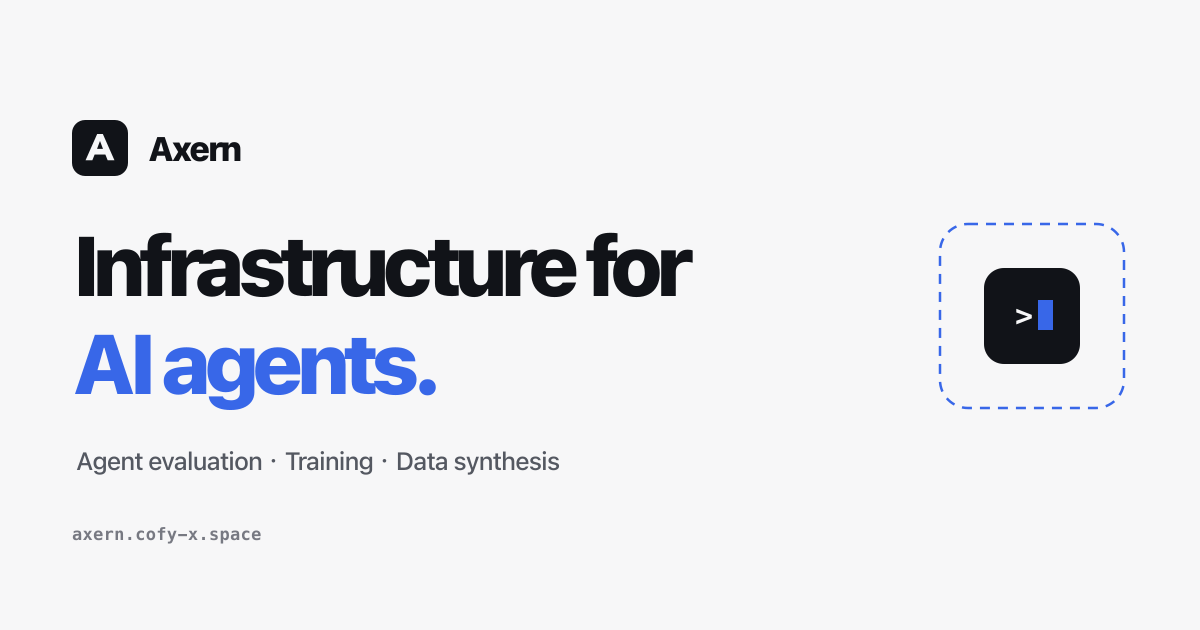
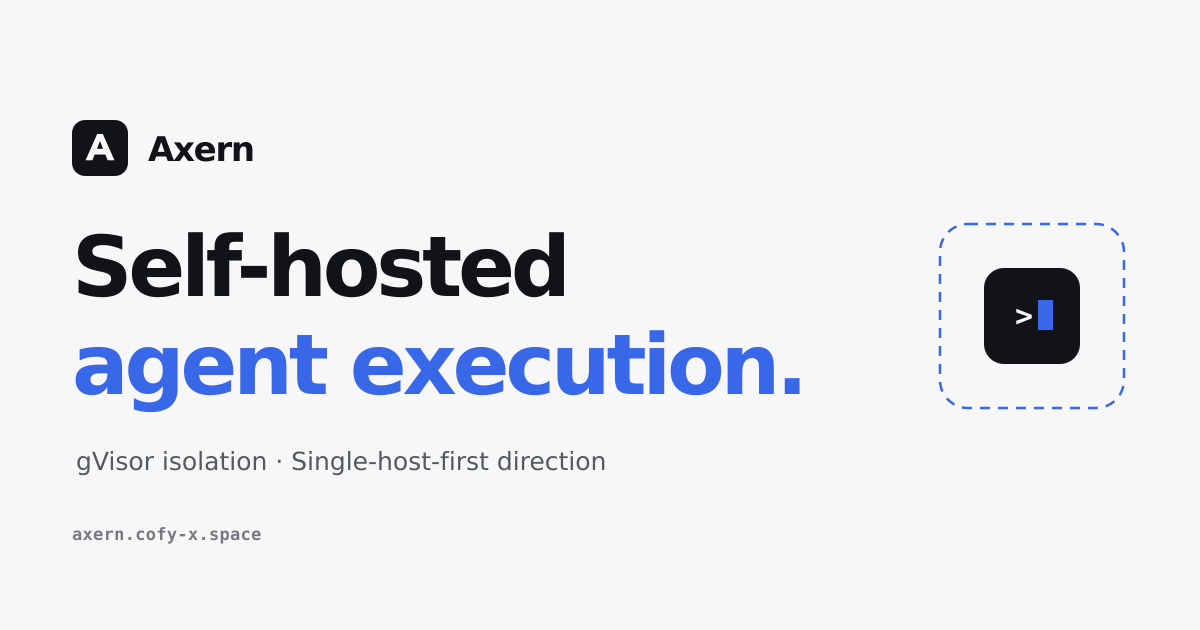
docs: define single-host agent serving direction

diff --git a/docs/decisions/single-host-agent-serving.md b/docs/decisions/single-host-agent-serving.md
@@ -1,0 +1,112 @@
+# Single-Host Agent Serving
+
+## Decision And Status
+
+Axern's direction is a self-hosted execution platform for AI agents, optimized for continued work on one Linux host. gVisor/runsc is the sole long-term execution backend. Persistent Workspace and a qualified standalone serving profile are accepted product goals; they are not implemented by this documentation change.
+
+This decision supersedes the conditional second-runtime direction in [Firecracker Evaluation Boundary](firecracker-evaluation-boundary.md). The [Product Direction](../product/product-direction.md) owns the enduring scope. The [roadmap issue](https://github.com/cofy-x/axern/issues/195) and linked phase issues own delivery status, dependencies, and verification evidence; the current [Domain Model](../product/domain-model.md), [Runtime Architecture](../architecture/runtime-architecture.md), and [Storage Architecture](../architecture/storage-architecture.md) continue to describe implemented contracts.
+
+## Rationale
+
+Personal agent work needs environments that are easy to operate, can run background work, retain useful files, and allow a human to inspect and continue a task. Evaluation, training, and synthesis remain valid workloads, but fleet scale and transient batch throughput no longer determine the default architecture. A real multi-agent workflow should drive investment before speculative backend, cluster, or snapshot generalization.
+
+The existing execution identities, authority checks, runtime recovery, and cleanup mechanisms remain valuable. Simplification should reduce configuration, deployment units, and failure coordination while preserving those boundaries. A single command or package is useful; forcing all code into one privileged process is not a goal.
+
+## Current Baseline And Target
+
+This assessment uses source baseline `c0d8444964d21468d2e778a769570cc7b21b00ef` (v0.12.1). It is a design baseline, not a claim that a current host or release artifact has passed qualification.
+
+| Concern | Current implementation | Target |
+| --- | --- | --- |
+| Local startup | CLI-managed Compose with PostgreSQL and multiple services; generated development identity, loopback listeners, and `disabled_dev` cgroup enforcement | One qualified Linux installation and managed service lifecycle with required enforcement enabled |
+| macOS | CLI and local stack through a Linux VM | Client and VM development experience; no native macOS runsc implementation |
+| Execution | Environment -> Run -> Allocation; Sandbox facade; runsc only | Preserve the execution chain and permanently select gVisor/runsc |
+| Working files | Allocation-local writable rootfs; no persistent Workspace API | Independently retained, authorized host-local Workspace data |
+| Results | Bounded node-local outputs; successful rootfs sealing creates an immutable Environment | Explicit retained-result delivery with inspectable success, retention, and failure |
+| Connections | Processes, terminals, SSH, and reverse Tunnels | Reconnectable work and authenticated service previews with explicit execution identity |
+| Maintenance | Pre-stable schema changes use coordinated rebuilds; local refresh paths can reset state | Supported-version migration, protected backups, restore, and observable restart recovery |
+
+Current local Compose must not be relabeled as the qualified serving profile. Existing commands and published APIs remain valid until an implementation changes them explicitly; this decision defines no new executable command or released API.
+
+## Target Ownership
+
+```mermaid
+flowchart TB
+    Caller["Personal agent platform: events, tasks, planning, memory, approvals"] --> Worker["Worker adapter / agent harness"]
+    Worker --> Public["Axern public API and access boundary"]
+    Public --> Control["Control: intent, authorization, admission, retention"]
+    Control --> DB["PostgreSQL: authoritative product metadata"]
+    Public --> Executor["Privileged local execution boundary"]
+    Control --> Executor
+    Executor --> Runtime["gVisor / runsc"]
+    Executor --> Data["Managed host-local Workspace and result bytes - planned"]
+```
+
+This is an ownership diagram, not a promise that each box is a separate daemon. The target installation manages one public endpoint and configuration surface, a control service, the necessary local execution/helpers, and PostgreSQL. Public traffic must not inherit host operator authority when components share a package or process. Remote transports can be removed or localized only with an explicit equivalent authorization and failure contract.
+
+Axern owns execution and data facts: what is running, where authorized files live, which writer owns an attachment, what resources are charged, what bytes were delivered, and whether cleanup is confirmed. The upper agent platform owns task completion, Agent roles, model choice, memory, scheduling policy, messages, approvals, semantic retries, result merging, and external effects. A worker protocol and its Session meaning belong to the adapter rather than Axern's domain model.
+
+Running a worker's complete harness inside a sandbox is the preferred first integration shape. Redirecting only shell commands is insufficient if filesystem operations, background jobs, or subagents still execute on the host. An adapter must enumerate those paths and its scoped model/credential transport; Axern need not understand the harness's private Session format.
+
+## Persistent Workspace Boundary
+
+Workspace is planned as a namespace-scoped data resource with an identity and lifetime independent of a Run or Allocation. It is not an Environment property, a persistent Sandbox object, or an Agent Session. An Environment remains immutable execution input. A new execution from retained files still creates a new Run and Allocation; old execution identities and access grants are never reused. A Workspace handle must not silently redirect an old process, terminal, or file-operation handle to a replacement Allocation.
+
+- **Authority and location:** PostgreSQL owns Workspace metadata, authorization, attachment intent, and retained storage accounting. One managed Linux host owns the bytes and mount observations. Missing or inaccessible data is explicit, never an empty successful recovery or an automatic cross-host reschedule.
+- **Attachment:** Run admission freezes the authorized Workspace reference. The first version permits one writer. Transferring write ownership requires evidence that the old runtime and writable attachment have stopped or equivalent enforced fencing; database lease expiry alone is insufficient. Define any read-only access consistently with live writers rather than implying a snapshot.
+- **Capacity:** retained bytes remain charged when detached. Workspace capacity is separate from the current ephemeral rootfs charge and needs its own enforced accounting and full-disk behavior.
+- **Isolation:** callers cannot select arbitrary host paths. Mount validation, traversal/symlink handling, namespace authorization, and secret projection boundaries must remain enforceable through attachment, access, backup, and deletion.
+- **Retention and deletion:** stopping or deleting a sandbox does not delete Workspace data. Workspace deletion is an explicit authorized operation, blocked by active or ambiguous attachments until ownership and cleanup converge. Retention policies must be visible rather than silently inherited from Run output TTLs.
+- **Recovery:** retained files enable rebuilding work, not transparent process continuation. Host reboot, node/disk loss, and restoring a backup have distinct outcomes. Upper-layer recovery decides whether to restart a worker or retry an external action.
+
+The existing successful-Run rootfs snapshot remains an immutable Environment result, not a mutable Workspace or process checkpoint. Existing reverse Tunnels connect sandbox workloads to caller-owned services; inbound authenticated preview requires its own access contract. Existing 15-minute declared-output retention remains unchanged until the relevant implementation lands.
+
+For initial durable handoff, define explicit publication to retained Workspace data or caller-owned storage, with receipts for the actual bytes. Do not add a generic object store or another public Artifact root without an independently justified lifecycle. A cold backup may be the first supported backup mechanism, but it must coordinate metadata, data, required recovery facts, and encryption/identity material; an unrelated database dump and copy of live directories is not a consistency guarantee.
+
+Recovery also needs immutable Environment image digests, supported runtime versions, and an explicit registry retention/access responsibility. A restore is not proven merely because files are readable: qualify a fresh Allocation from the original immutable Environment with the recovered data. Missing images or credentials must produce an explicit failure, never tag drift or an empty replacement environment. Fence the previous installation before regranting writer authority, and do not revive stale Allocation leases from a backup.
+
+## Module Dispositions
+
+The table describes implementation direction, not completed moves or module deletion. Linked module contracts continue to own current technical behavior.
+
+| Existing module or dependency | Disposition | Planned treatment and constraint |
+| --- | --- | --- |
+| `apps/cli`, Go/Python/TypeScript SDKs, `sdk/proto` | Keep and simplify the common path | One standalone setup/diagnostic experience; add Workspace and reconnect contracts atomically across public surfaces. Preserve explicit IDs and error semantics. |
+| `control/controld` | Keep authority; consolidate deployment | Retain intent, authorization, resource charge, and lifecycle; add Workspace metadata. Local placement should not require cluster operations. |
+| `gateway/gatewayd` | Consolidate compatible control wiring | Evaluate one control-service composition with `controld`; preserve public access checks, stream behavior, revocation, and no host-operator privilege. A process merger requires failure tests. |
+| `controld-retention`, migration and access bootstrap jobs | Fold into managed lifecycle | Integrate retention scheduling and one-shot setup/upgrade orchestration without competing writers or resetting existing state. Keep migration ordering explicit. |
+| PostgreSQL | Keep one authority | Manage installation, backup and upgrades. Do not add SQLite or dual state backends during this transition. |
+| `runtime/axnoded`, `axern-sandboxd`, runsc | Keep execution boundary | Own runtime, processes, mounts, enforced limits, local recovery and cleanup. Pin/manage the full runtime package and qualify systrap as the initial serving platform on supported Linux hosts. No additional backend or runtime registry. |
+| `runtime/egressd` | Keep enforcement responsibility | Managed local helper with explicit privilege and health checks. Co-packaging must not bypass fail-closed network policy. |
+| `runtime/tunneld`, node tunnel connector | Consolidate deployment where justified | Preserve finite allocation authority and reverse-relay behavior. Co-locate wiring where useful; do not confuse relay consolidation with adding authenticated preview. |
+| `runtime/imagemgr` | Keep and narrow default dependencies | Preserve OCI pull/cache/rootfs ownership. Audit startup coupling before making Nydus-specific dependencies optional; ordinary OCI currently does not imply those dependencies can simply be deleted. |
+| `runtime/imagefsd`, Nydus, chunk/P2P paths | Defer new optimization; isolate optional path | Keep existing supported behavior until an explicit compatibility change. Make it unnecessary for the default OCI installation only after dependency and cleanup tests prove separation. |
+| `network/bpfnet` and alternate host-network paths | Keep a qualified default; defer expansion | Select one tested Linux serving profile. Changing backend is a separate enforcement qualification, not a shortcut to fewer services. |
+| `deploy/local` | Keep development workflow | Preserve macOS/Linux local development, while separating it clearly from the qualified Linux serving profile. |
+| Helm/kind, cluster/HA/multi-region work | Maintain existing contracts; defer new scope | They must not be prerequisites for the personal installation. Removing an existing deployment path needs an explicit migration decision. |
+| Local registry and observability services | Manage or make optional by demonstrated need | Consume existing OCI images first; document registry/cache needs. Diagnostics are required, a full metrics dashboard stack is not a first-task prerequisite. |
+| `apps/docs` and root documentation | Keep aligned with evidence | Publish current commands and capabilities; label planned behavior and route implementation status to issues. |
+| Axrun, Kova, and agent harnesses | External consumers or optional producers | Axrun retains its evaluation contract; Kova can supply images but is not required. Agent orchestration and worker adapters remain outside Axern. |
+
+## Phased Delivery
+
+Each phase issue owns its checklist, implementation PRs, and actual acceptance results. Phase numbers express dependencies, not calendar promises. Contract design can overlap, but dependent behavior must not be advertised before its prerequisites pass. During Phases 1–2, run a bounded consumer compatibility experiment with a complete worker, filesystem tools, background jobs, subagents, and model connectivity inside the execution boundary. Use its findings to shape the contracts; Phase 5 still owns complete integration acceptance after qualification.
+
+| Phase | Scope | Dependency and exit evidence |
+| --- | --- | --- |
+| [0: Positioning and architecture](https://github.com/cofy-x/axern/issues/196) | Product descriptions, boundaries, module dispositions, and this decision | Reviewed current/planned separation and documentation checks |
+| [1: Linux standalone baseline](https://github.com/cofy-x/axern/issues/197) | Managed setup/configuration, enforced runsc path, component consolidation and OCI dependency simplification | Phase 0; fresh-host real sandbox, resource/network enforcement, preserved data on restart, measured operational footprint |
+| [2: Persistent Workspace](https://github.com/cofy-x/axern/issues/198) | Independent data lifecycle, authorization, attachment, fencing, capacity and deletion | Phase 1 runtime/storage baseline; restart/recreate retention and competing-writer/deletion/failure tests |
+| [3: Reconnect and handoff](https://github.com/cofy-x/axern/issues/199) | Background work, terminal recovery, authenticated preview and explicit result delivery | Phase 2; disconnect, revocation, cleanup and delivery-failure acceptance |
+| [4: Stateful maintenance](https://github.com/cofy-x/axern/issues/200) | Supported upgrades, consistent backup/restore, reboot and failure convergence | Phase 1 baseline plus Phase 2/3 data contracts; isolated restore and supported-version upgrade preserving data and authority |
+| [5: Personal-agent pilot](https://github.com/cofy-x/axern/issues/201) | External adapter, two isolated workers, human inspection and retained follow-up | Phases 1–4; reproducible complete task and interruption scenarios using public APIs |
+
+Phase 1 establishes the executable Linux baseline; its release/backup design must precede persistent data work. Phase 4 qualifies the complete stateful maintenance contract. Until that passes, the new profile remains evaluation-only rather than claiming long-term service readiness. The current rebuild-only schema policy cannot silently become the upgrade policy for retained personal work.
+
+The pilot uses separate Workspaces for independent writers and explicit caller-owned result merging. It must distinguish controller/client restart from full host reboot, show that sandbox destruction preserves data, and require explicit Workspace deletion. A human handoff must coordinate with the worker's writing policy; a terminal connection by itself does not establish exclusive access.
+
+## Consequences And Revisit Conditions
+
+The platform accepts a narrow persistent-data responsibility and the maintenance obligations that follow. That increases storage correctness work while reducing investment in alternative runtimes and fleet-oriented features. PostgreSQL and necessary helpers remain dependencies; this decision promises a smaller managed operational surface, not a dependency-free binary.
+
+Keep module consolidation when measured configuration, startup, idle footprint, and recovery improve without weakening authorization, cleanup, or debugging. Revisit a specific consolidation if it broadens privilege or worsens fault recovery. Consider deferred scaling or image optimization only when an actual single-host workload demonstrates the gap. The gVisor-only choice is the durable product constraint, not a pending comparison experiment.

diff --git a/docs/product/product-direction.md b/docs/product/product-direction.md
@@ -1,31 +1,45 @@
 # Axern Product Direction
 
-This document defines the durable product direction used to accept or reject new scope. It is not a roadmap or backlog.
+This document defines the durable direction used to accept or reject scope. The [single-host architecture decision](../decisions/single-host-agent-serving.md) defines the target and module dispositions; the [roadmap](https://github.com/cofy-x/axern/issues/195) tracks implementation and acceptance. Current API and lifecycle guarantees remain in the [Domain Model](domain-model.md) and architecture documents.
 
 ## North Star
 
-Axern is an open-source environment execution platform for agent evaluation, training, and data synthesis. Its public SDK provides secure, rebuildable, high-concurrency sandboxes with explicit lifecycle, access, output, and cleanup contracts.
+Axern is a self-hosted execution platform for AI agents, optimized for continued work on one Linux host. It provides isolated execution through gVisor, with a direction toward persistent workspaces, reconnectable work, and low operational overhead. Personal agent systems are the primary design reference; evaluation, training, and data synthesis remain consumers of the same execution primitives.
+
+The target experience is to run independent agent workers, retain their work, inspect processes and services, and hand work between agents and a human without operating a cluster. Success is measured by time to a first useful task, recovery after interruption, idle resource cost, and ongoing maintenance effort. Unmeasured startup, density, or durability claims are not product guarantees.
+
+## Delivery Status
+
+The current product provides the `Environment -> Run -> Allocation` execution model, a Sandbox SDK facade, process/file/terminal operations, reverse Tunnels, and a multi-service local Compose stack. Writable files are Allocation-local; selected outputs have bounded node-local retention. The current local stack uses development credentials and `disabled_dev` cgroup enforcement.
+
+A qualified long-running Linux standalone profile and persistent Workspace are planned capabilities. Updating this direction does not introduce a Workspace API, change output retention, promise process survival across reboot, or turn the local development profile into a production service. Follow the roadmap for implementation evidence.
 
 ## Principles
 
-- **One execution model:** `Environment -> Run -> Allocation -> runsc sandbox` is the only durable chain; `Sandbox` is an SDK facade over it.
-- **One production runtime:** runsc owns the execution boundary. Missing isolation or capability evidence fails closed; experimental runtimes do not create parallel product models.
-- **Explicit authority:** process, file, archive, terminal, SSH, Tunnel, and output access are finite and Allocation-scoped.
-- **Durable control, local execution:** PostgreSQL owns central product intent; node runtime and kernel state remain local, recoverable projections.
-- **Rebuildable inputs, explicit outputs:** Environments are immutable, writable state is Allocation-local, and selected outputs use bounded delivery to caller-owned storage.
-- **Public composition:** CLIs and SDK consumers use released APIs rather than internal packages or alternate control planes.
-- **Local-to-deployed continuity:** development and deployed environments exercise the same contracts; Linux- or cluster-specific behavior is proven in the environment that owns it.
+- **Single-host first:** make one Linux installation, configuration, data layout, and maintenance path complete before investing in cluster expansion. macOS remains a client and a development host through a Linux VM; it is not a native runsc execution host.
+- **One runtime:** gVisor/runsc is the sole long-term sandbox backend. Missing isolation or capability evidence fails closed; no fallback or second runtime registry is planned.
+- **One execution model:** `Environment -> Run -> Allocation -> runsc sandbox` remains the only durable execution chain. Sandbox is the SDK facade; a persistent Workspace will own retained data separately from execution.
+- **Explicit authority:** process, file, archive, terminal, SSH, Tunnel, and future preview access remain scoped, revocable, and bound to execution identity. Packaging consolidation must preserve public, operator, and privileged runtime boundaries.
+- **Durable control, local data:** PostgreSQL remains the sole authoritative product-state backend in this transition. Node-local recovery is a projection. Host-local files need an explicit retention, capacity, backup, and loss contract; metadata durability alone does not make bytes durable.
+- **Recoverable work:** distinguish reconnecting to an existing execution, rebuilding a new execution from retained data, and losing a process. The caller owns semantic retries and duplicate external-effect prevention.
+- **Small operational surface:** manage dependencies and compatible control components together, retain necessary privilege separation, and make optional image/network optimizations earn their cost through real workloads.
+- **Public composition:** worker adapters, CLIs, and SDK consumers use public APIs. No particular model provider, agent harness, Kubernetes installation, or image-build service is required to consume the platform.
 
 ## Product Boundary
 
-Axern owns Namespace, Environment, Run, Allocation, Node, Secret, authorization, resource admission, execution leases, capability evidence, Allocation operations, TunnelSession, and bounded output delivery.
+| Area | Axern scope | Caller or external scope |
+| --- | --- | --- |
+| Execution | Environment, Run, Allocation, admission, limits, cancellation, cleanup, and observable recovery | Task intent, planning, Agent roles, orchestration, and semantic retries |
+| Work data | Planned host-local Workspace identity, authorized attachment, single-writer fencing, retention, and explicit deletion | Agent memory, conversation/session meaning, Git merging, and distributed storage |
+| Interaction | Processes, terminals, files, logs, reverse Tunnels, and planned authenticated allocation-scoped previews | IDE or dashboard product, application rollout, replicas, and route orchestration |
+| Delivery | Existing bounded outputs and planned explicit retained-result handoff | Business acceptance, long-term external publication, and external side effects |
+| Authority | Principal/Namespace authorization, secrets, execution authority, and resource accounting | Human approval policy, model budgets, provider credentials, and event integrations |
+| Operations | A qualified standalone lifecycle, diagnostics, backup/restore, and supported-version upgrades | Cloud accounts, cluster provisioning, high availability, and image builds |
 
-Axern does not own application orchestration, service deployment, persistent workspaces, volume provisioning, clusters, regions, cloud accounts, or image builds. Those capabilities belong to callers, applications, storage systems, or deployment infrastructure.
+The planned Workspace is deliberately narrow: managed local data with an independent lifetime, not a general volume platform. Stopping an execution must not imply deleting its retained Workspace; concurrent writers require enforced ownership rather than a shared-directory convention. The exact public contract must be implemented atomically across state, APIs, SDKs, CLI, and verification before the Domain Model presents it as available.
 
-SSH, Terminal, and Tunnel are execution-platform capabilities, not reasons to introduce service deployment or application-session models. Node-local operator tools are diagnostics, not public lifecycle authorities.
+Existing Kubernetes, Nydus, and other supported paths are not removed by this direction. New cluster/HA, distributed image/storage optimization, and transparent process snapshot/fork investment is deferred behind demonstrated single-host needs. Additional execution runtimes are outside the chosen product scope.
 
 ## Scope Test
 
-A proposal belongs in Axern only when it serves environment execution, has one explicit state owner, composes the stable Run and Allocation lifecycle, defines authorization and cleanup, and cannot be implemented safely through existing public primitives. Otherwise it belongs above or below the platform.
-
-Stable object meaning lives in the [Domain Model](domain-model.md). Current implementation belongs in architecture documents, commands in runbooks or READMEs, and version history in release notes.
+A proposal belongs in Axern when it serves isolated execution or retained execution data, has one explicit state owner, preserves the execution chain, and defines authorization, capacity, cleanup, and recovery. Workflow meaning and provider-specific behavior stay in callers. A new first-class resource must demonstrate an independent identity and lifetime that existing resources cannot safely express.

diff --git a/README.md b/README.md
@@ -1,5 +1,5 @@
 <p align="center">
-  <img src="./assets/readme/hero.svg" width="100%" alt="Axern — sandbox execution for AI agents: Environment → Run → Allocation → runsc sandbox">
+  <img src="./assets/readme/hero.svg" width="100%" alt="Axern — self-hosted execution for AI agents: Environment → Run → Allocation → runsc sandbox">
 </p>
 
 <p align="center">
@@ -14,9 +14,11 @@
   <a href="./README.zh-CN.md">简体中文</a>
 </p>
 
-Axern is an open-source environment execution platform for agent evaluation, training, and data synthesis. It isolates agent-generated code with gVisor (`runsc`) through one resource and lifecycle model. Runsc is the supported execution runtime, with no runtime fallback. The CLI and the Go, Python, and TypeScript SDKs expose the same public APIs for Environments, Runs, sandbox processes and files, Tunnels, lifecycle state, and allocation-scoped access.
+Axern is an open-source, self-hosted execution platform for AI agents. It isolates agent-generated code with gVisor (`runsc`) through one resource and lifecycle model. Runsc is the supported execution runtime, with no runtime fallback. The CLI and the Go, Python, and TypeScript SDKs expose the same public APIs for Environments, Runs, sandbox processes and files, Tunnels, lifecycle state, and allocation-scoped access.
 
-> **Project status:** Axern is pre-1.0 and under active development. It is suitable for evaluation and contribution, but operators should review the security and production boundaries before deploying multi-tenant workloads.
+The product direction is **single-host-first infrastructure for personal agent systems**: simpler Linux deployment, long-running sandbox services, and persistent Workspaces that multiple agents can use through explicit access and ownership. Agent planning, collaboration, and workflows remain in caller applications. See the [product direction](./docs/product/product-direction.md) and [single-host serving decision](./docs/decisions/single-host-agent-serving.md).
+
+> **Project status:** Axern is pre-1.0 and under active development. The dedicated single-host serving deployment and persistent Workspace resource are planned, not implemented. Today's local path is a Docker Compose development stack; writable storage is Allocation-local, and sealed outputs expire after 15 minutes. Review the current deployment and storage boundaries before use.
 
 The durable chain is **Environment → Run → Allocation → runsc sandbox**. Sandbox is an SDK facade over that chain, not a second execution lifecycle.
 
@@ -26,7 +28,7 @@ The durable chain is **Environment → Run → Allocation → runsc sandbox**. S
 
 ## Quickstart
 
-The supported local path runs the complete stack with Docker Compose. It needs only the `axern` CLI and Docker Compose v2 — no source checkout, Make, Helm, or language toolchains.
+The supported local development path runs the complete stack with Docker Compose on Linux or through Docker Desktop's Linux VM on macOS. It needs only the `axern` CLI and Docker Compose v2 — no source checkout, Make, Helm, or language toolchains. gVisor execution runs on Linux in both cases.
 
 ```bash
 brew install cofy-x/tap/axern
@@ -70,16 +72,16 @@ For repository development, `make verify-changed` is the normal fast feedback en
 ## What You Can Build
 
 - **Agent sandboxes:** execute agent-generated code behind a runsc isolation boundary while retaining process, file, terminal, and output APIs.
-- **Evaluation and synthesis batches:** execute isolated work concurrently through Runs, with explicit inputs, outputs, and lifecycle evidence.
+- **Concurrent agent tasks:** execute coding, research, evaluation, or data processing work through independent Runs, with explicit inputs, outputs, and lifecycle evidence.
 - **SDK-driven execution:** use a released SDK to create Runs, operate their Allocations, seal bounded declared outputs, publish a successful writable rootfs as a reusable Environment, and recover by public resource identity.
 
 ## Why Axern
 
-- **Sandbox as the primitive:** evaluation, training, data synthesis, coding workspaces, and agent tasks compose the same Run execution model.
+- **Execution for your agent system:** compose isolated agent tasks through the same Run execution model while keeping planning, memory, and collaboration in your application.
 - **Durable control plane:** PostgreSQL-backed intent, placement, leases, allocation-scoped status, health, and cleanup state remain authoritative across process or node restarts.
 - **One production runtime:** runsc workloads use the same public APIs; OCI and Nydus image paths converge at the node runtime.
 - **Real data-plane access:** process streams, files, archives, SSH-compatible terminals, and reverse TCP tunnels are explicit allocation capabilities.
-- **Local-to-cluster continuity:** Docker Compose, kind, and the cloud-neutral Helm chart exercise the same component boundaries.
+- **A focused direction:** prioritize simpler single-host deployment and persistent working data; existing Compose, kind, and Helm deployment contracts remain documented while that work is implemented.
 
 ## Architecture
 

diff --git a/docs/architecture/runtime-architecture.md b/docs/architecture/runtime-architecture.md
@@ -2,6 +2,8 @@
 
 Object identity and ownership follow the [Stable Domain Model](../product/domain-model.md). This document describes the current component and traffic boundaries that implement it.
 
+The target deployment is Linux single-host serving, with macOS clients and VM-backed local development. Planned service consolidation is defined in [Single-Host Agent Serving](../decisions/single-host-agent-serving.md); the separate services and traffic paths below remain the current implementation.
+
 Axern separates durable product intent from node-local execution:
 
 - `controld` and PostgreSQL own Environments, Runs, Allocations with their resource charges, allocation access grants, TunnelSessions, placement, authorization, and durable lifecycle state. Axnoded persists the locally received execution-lease deadline with its Allocation recovery record.
@@ -60,13 +62,8 @@ Reconsider this decision when a reproducible supported-platform Run fails on a r
 
 ## Runtime Backend Boundary
 
-The public and control-plane model is backend-neutral today: Environment, Run, Allocation, resource charge, ExecutionLease, AllocationAccessGrant, SSH, TunnelSession, and Gateway routing carry only Allocation identity and typed execution requirements. Runsc container names, bundles, OCI state, and recovery checkpoints stay under `runtime/axnoded`.
+gVisor (`runsc`) is the sole sandbox runtime for both the current implementation and the long-term product direction. Missing required runsc, isolation, or platform capability evidence fails closed; there is no runtime fallback or planned second backend. The rationale is recorded in [Single-Host Agent Serving](../decisions/single-host-agent-serving.md).
 
-Axnoded is not yet ready to add Firecracker as a second implementation without node-local work. The concrete blockers are intentionally local:
+Environment, Run, Allocation, resource charge, ExecutionLease, AllocationAccessGrant, SSH, TunnelSession, and Gateway routing carry Allocation identity and typed execution requirements. Runsc container names, bundles, OCI state, and recovery checkpoints stay under `runtime/axnoded`. Keeping those handles private preserves ownership boundaries without creating a runtime selection API.
 
-- lifecycle wiring stores one `runscHandler` and several recovery paths call it directly;
-- create planning, rootfs overlay enforcement, capability conformance, process/file transport, and sandboxd session establishment assume OCI/runsc artifacts;
-- node recovery inventory and terminal checkpoint recovery enumerate runsc containers directly;
-- cgroup and ephemeral-storage enforcement manifests contain runsc-specific verification details.
-
-Those blockers do not justify a second control-plane lifecycle, speculative backend fields, or an in-process runtime registry. If Firecracker is qualified later, it should ship as a separate node implementation and node pool that satisfies the existing Allocation lifecycle, process/file/session, recovery, and capability-evidence contracts. Backend-specific handles remain private to that implementation; the Allocation ID remains the only execution identity, and placement selects a node from immutable execution requirements rather than a user-visible backend name.
+Axnoded uses one runsc executor for creation, recovery, process and file transport, cleanup, and enforcement evidence. Its internal interfaces are execution and test boundaries; they do not define a plugin registry or an Allocation-selectable backend. The Allocation ID remains the only execution identity.

diff --git a/runtime/axnoded/README.md b/runtime/axnoded/README.md
@@ -1,6 +1,6 @@
 # Axnoded
 
-`axnoded` is Axern's node-local sandbox execution agent. It runs on a selected node and owns sandbox creation, OCI bundle generation, runtime lifecycle, resource coordination, node-local operator inspection, gateway-forwarded execution after `controld` placement, and request-scoped image-backed process.
+`axnoded` is Axern's Linux node-local sandbox execution agent. It runs on a selected node and owns sandbox creation, OCI bundle generation, runtime lifecycle, resource coordination, node-local operator inspection, gateway-forwarded execution after `controld` placement, and request-scoped image-backed process. macOS local development runs this Linux execution stack inside a VM.
 
 `controld` is the product-facing control plane. `axnoded` is the node authority for executing an admitted allocation.
 
@@ -30,9 +30,9 @@ Node lifecycle requests carry resolved secret env vars, resolved secret files, r
 
 ## Architecture
 
-Requests enter through `internal/api`, move through `internal/service`, then coordinate rootfs resolution, resources, persisted container state, the process-owned runsc executor, and sandbox-local `axern-sandboxd` operations. One axnoded process owns exactly one execution backend; Allocation requests and node-local metadata contain no runtime selector.
+Requests enter through `internal/api`, move through `internal/service`, then coordinate rootfs resolution, resources, persisted container state, the process-owned runsc executor, and sandbox-local `axern-sandboxd` operations. One axnoded process owns one runsc executor; Allocation requests and node-local metadata contain no runtime selector.
 
-Firecracker is not a dormant plugin in this process. If it is qualified later, it will be a separate node implementation and node pool with its own guest image, networking, snapshot, agent, recovery, and capability evidence contracts. Placement selects a node whose isolation capabilities satisfy the immutable Allocation requirements; users do not select a backend name.
+gVisor (`runsc`) is the sole sandbox runtime for the long-term product direction, with no fallback or planned second backend. Missing required runtime or enforcement evidence fails closed. Planned Linux single-host packaging changes are defined in [Single-Host Agent Serving](../../docs/decisions/single-host-agent-serving.md); this document describes the current node implementation.
 
 One process-owned BoltDB under the configured store directory persists node-local resource snapshots and one atomic runtime/image ownership record per allocation. The database is opened once during service construction and closed only after resource writers stop during shutdown.
 

diff --git a/docs/README.md b/docs/README.md
@@ -27,7 +27,8 @@ Do not keep completed plans, migration diaries, dated progress summaries, or alt
 ## Decisions
 
 - [Documentation Site Visual Direction](decisions/docs-site-visual-direction.md): durable visual, content, interaction, and ownership constraints for the public documentation site.
-- [Firecracker Evaluation Boundary](decisions/firecracker-evaluation-boundary.md): keep runsc as the sole production backend until a separately qualified experiment proves a concrete need.
+- [Single-Host Agent Serving](decisions/single-host-agent-serving.md): Linux standalone direction, long-term gVisor-only execution, planned persistent Workspace, upper-agent boundary, module dispositions, and linked delivery phases.
+- [Firecracker Evaluation Boundary](decisions/firecracker-evaluation-boundary.md): superseded conditional runtime-evaluation decision; the current direction selects gVisor only.
 - [Node Operator Authority Boundary](decisions/node-operator-authority-boundary.md): retain Allocation-scoped node diagnostics without creating a second lifecycle authority or sharing operator privilege with machine integrations.
 - [Verification Feedback Tiers](decisions/verification-feedback-tiers.md): separate fast development feedback, Linux correctness, full regression, and frozen-candidate qualification.
 
@@ -36,6 +37,7 @@ Do not keep completed plans, migration diaries, dated progress summaries, or alt
 - [Long-Term Direction](product/product-direction.md): product north star, durable principles, investment areas, and non-goals.
 - [Stable Domain Model](product/domain-model.md): normative product objects, ownership, lifecycle meaning, and boundaries for API and persistence design.
 - [SDK User Model](product/sdk-user-model.md): intended SDK concepts and common lifecycle contract.
+- [Single-Host Roadmap](https://github.com/cofy-x/axern/issues/195): live implementation status, dependent phase issues, and acceptance evidence. Planned capabilities remain distinct from the current architecture below.
 
 ## Architecture
 

diff --git a/AGENTS.md b/AGENTS.md
@@ -2,10 +2,10 @@
 
 ## Platform Boundaries
 
-- Axern is an open-source environment execution platform for agent evaluation, training, and executable data synthesis.
+- Axern is a self-hosted execution platform for AI agents. Prioritize Linux single-host serving and continued agent work; macOS is a client and Linux-VM development host. See the [Product Direction](docs/product/product-direction.md) and [Single-Host Architecture Decision](docs/decisions/single-host-agent-serving.md) for target scope versus implemented capabilities.
 - The durable execution model is `Environment -> Run -> Allocation`. `Sandbox` is an SDK facade over that chain; terminal, process, file, SSH, and Tunnel capabilities bind to an explicit, never-reused Allocation ID.
-- Caller workflows remain outside the Run and Allocation state machine.
-- Runsc is the supported production sandbox backend. Missing required isolation or platform capability must fail closed.
+- Caller workflows, agent planning, memory, messages, approvals, and semantic retries remain outside Axern. The planned persistent Workspace is a separate data identity, not another execution lifecycle; current writable data remains Allocation-local until the coordinated contract is implemented.
+- gVisor/runsc is the sole long-term sandbox backend. Do not introduce another runtime, runtime registry, or fallback. Missing required isolation or platform capability must fail closed.
 - PostgreSQL is the only authoritative central state backend. Internal schema changes must update the owning model atomically; do not preserve obsolete internal tables, protobuf gaps, aliases, dual reads, or dual writes unless a published compatibility contract explicitly requires them.
 - Keep root deployment contracts cloud-neutral; provider credentials, account setup, and regional orchestration belong outside this repository.
 

diff --git a/docs/decisions/docs-site-visual-direction.md b/docs/decisions/docs-site-visual-direction.md
@@ -2,11 +2,11 @@
 
 ## Decision
 
-The Axern documentation site presents the product first as open-source sandboxes for AI agents and defines its broader boundary as agentic execution infrastructure. Its visual language is technical, direct, and product-specific: strong monospace typography, square geometry, restrained color, real code, and observable runtime behavior.
+The Axern documentation site presents the product as a self-hosted execution platform for AI agents, following the [single-host direction](single-host-agent-serving.md). Its visual language is technical, direct, and product-specific: strong monospace typography, square geometry, restrained color, real code, and observable runtime behavior. Planned serving and Workspace capabilities must remain visibly distinct from working examples and current guarantees.
 
 ## Design Contract
 
-- Lead with the AI Sandbox category and product outcome, then provide a local path to a working sandbox. Show real SDK and CLI usage immediately after the hero, and route readers into the documentation by intent (quickstart, SDK, and self-hosting) rather than by marketing narrative.
+- Lead with self-hosted agent execution and the product outcome, then provide the current local path to a working sandbox. Show real SDK and CLI usage immediately after the hero, and route readers into the documentation by intent (quickstart, SDK, and self-hosting) rather than by marketing narrative.
 - Use a compact grid, square borders, high-contrast controls, and a small set of reusable spacing and color tokens.
 - Use code, terminal recordings, and runtime state as the primary product imagery.
 - Use the homepage live execution deck to combine runtime events, isolation, lifecycle, and output in one observable surface. Keep terminal recordings with the code or guide they substantiate.

diff --git a/docs/product/domain-model.md b/docs/product/domain-model.md
@@ -4,7 +4,7 @@ This document defines Axern's stable product identities, lifecycle ownership, an
 
 ## Platform Boundary
 
-Axern provides secure, rebuildable, high-concurrency environment execution for agent evaluation, training, and data synthesis. Caller workflows remain outside the Run and Allocation state machine.
+Axern is a self-hosted execution platform for AI agents with gVisor isolation. Caller workflows remain outside the Run and Allocation state machine. This document describes implemented public identities; the [Product Direction](product-direction.md) and [Single-Host Architecture Decision](../decisions/single-host-agent-serving.md) define the target for Linux standalone serving and a planned persistent Workspace, neither of which adds an API through documentation alone.
 
 The only durable execution chain is:
 
@@ -132,7 +132,8 @@ Run and Allocation never double-own a fact: Run owns immutable execution intent 
 | --- | --- |
 | Service, Replica, Route, Rollout | External PaaS or application |
 | Function, Invoke, worker dispatch | Caller queue or workflow system |
-| Persistent Workspace or Volume provisioning | External storage or workspace layer |
+| Persistent Workspace | Not currently implemented; a narrow host-local data resource is planned in the [single-host decision](../decisions/single-host-agent-serving.md) |
+| General or distributed Volume provisioning | External storage layer |
 | Dashboard, IDE, cluster, region, cloud account, image build | Composed product or deployment infrastructure |
 
 ## Invariants

diff --git a/deploy/local/README.md b/deploy/local/README.md
@@ -14,6 +14,12 @@ The source Compose workflow owns the `axern-source` Docker Compose project. The 
 
 For gateway, terminal, and SSH examples, see [Gateway Quickstart](gateway-quickstart.md).
 
+## Deployment Scope
+
+Linux single-host serving is the product's deployment direction; macOS supports clients and local development with the Linux runtime inside a VM. The current `axern local up` and source Compose workflows run multiple services, including PostgreSQL. They remain development environments rather than the planned serving package described in [Single-Host Agent Serving](../../docs/decisions/single-host-agent-serving.md).
+
+Both Compose workflows use machine-local development identities and loopback public listeners. Their node configuration sets `AXNODED_CGROUP_ENFORCEMENT=disabled_dev`, so successful local execution does not qualify production CPU and memory enforcement. Keep runtime isolation, resource qualification, and deployment readiness distinct; use the [verification tiers](../../docs/verification/local-full-verification.md) for the applicable Linux checks.
+
 ## Start
 
 ```bash

diff --git a/docs/architecture/storage-architecture.md b/docs/architecture/storage-architecture.md
@@ -1,6 +1,8 @@
 # Storage Architecture
 
-Axern separates durable control state from Allocation-local writable files. Persistent workspace and output-storage orchestration is not part of the execution core.
+The current implementation separates durable control state from Allocation-local writable files. It does not yet provide a persistent Workspace resource or durable output-storage service.
+
+Persistent Workspace support is planned in [Single-Host Agent Serving](../decisions/single-host-agent-serving.md). The ownership, retention, and cleanup rules below describe current behavior; a writable sandbox directory or published rootfs result does not provide that planned Workspace contract.
 
 ## Data Ownership And Lifetime
 
